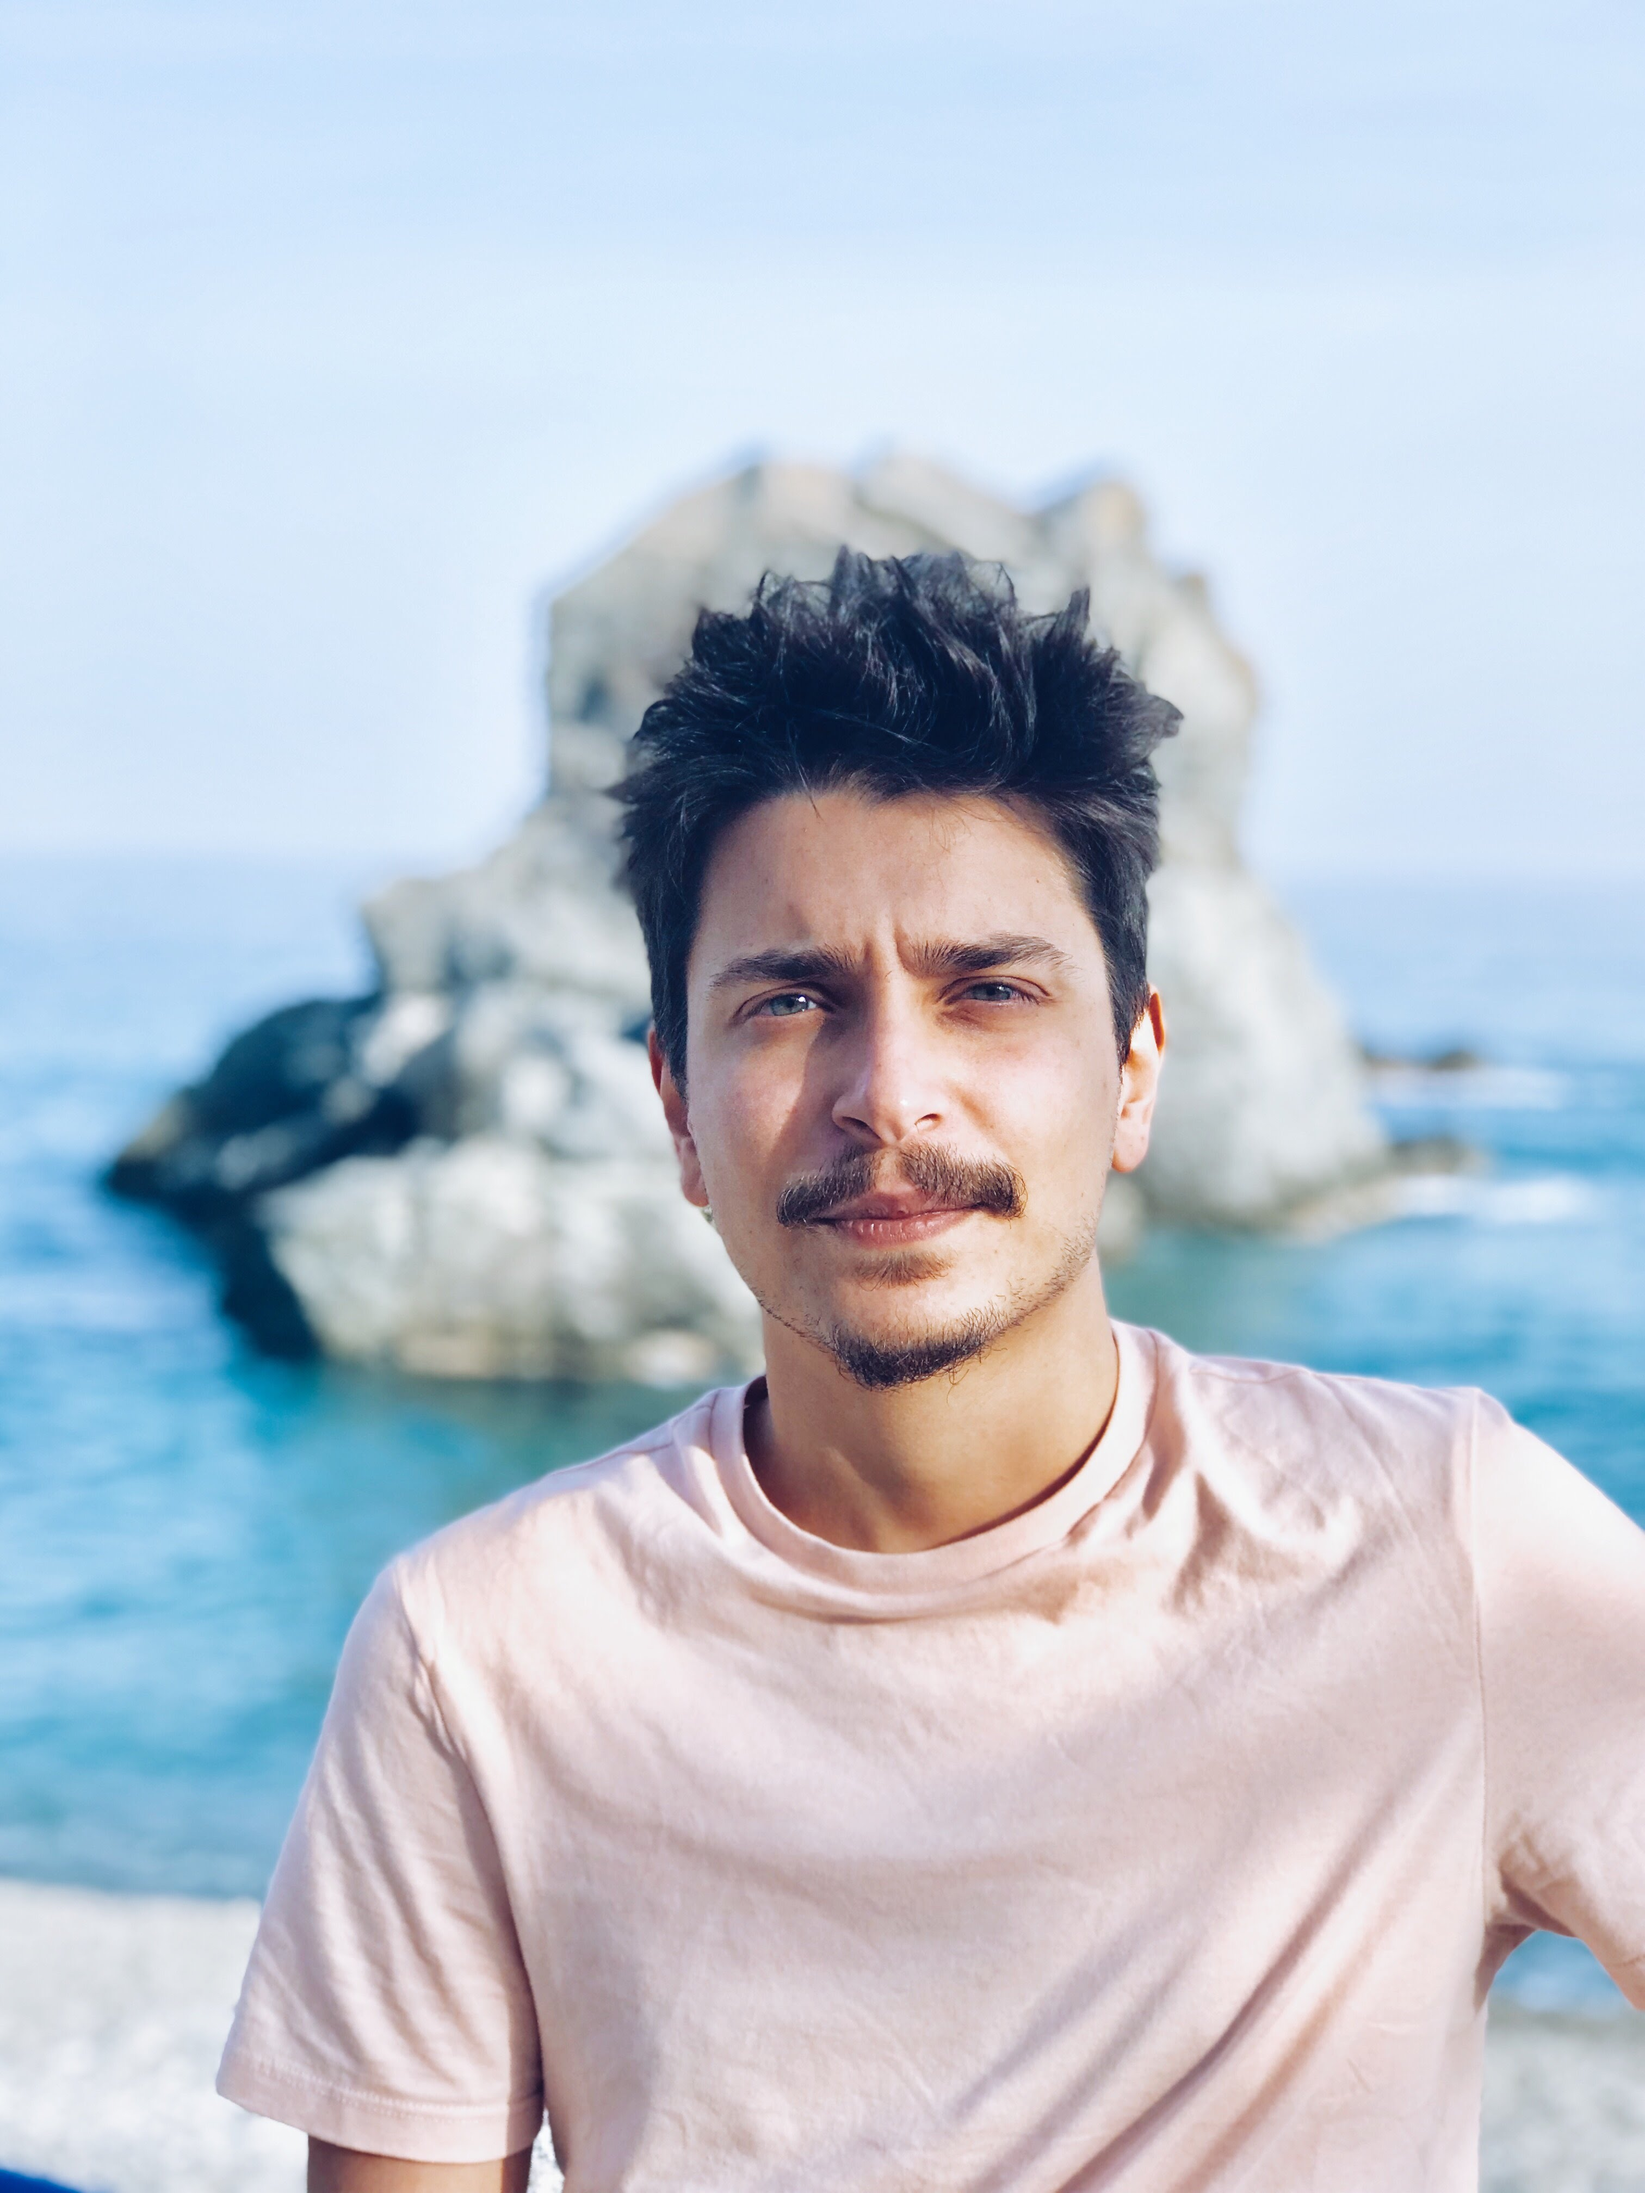
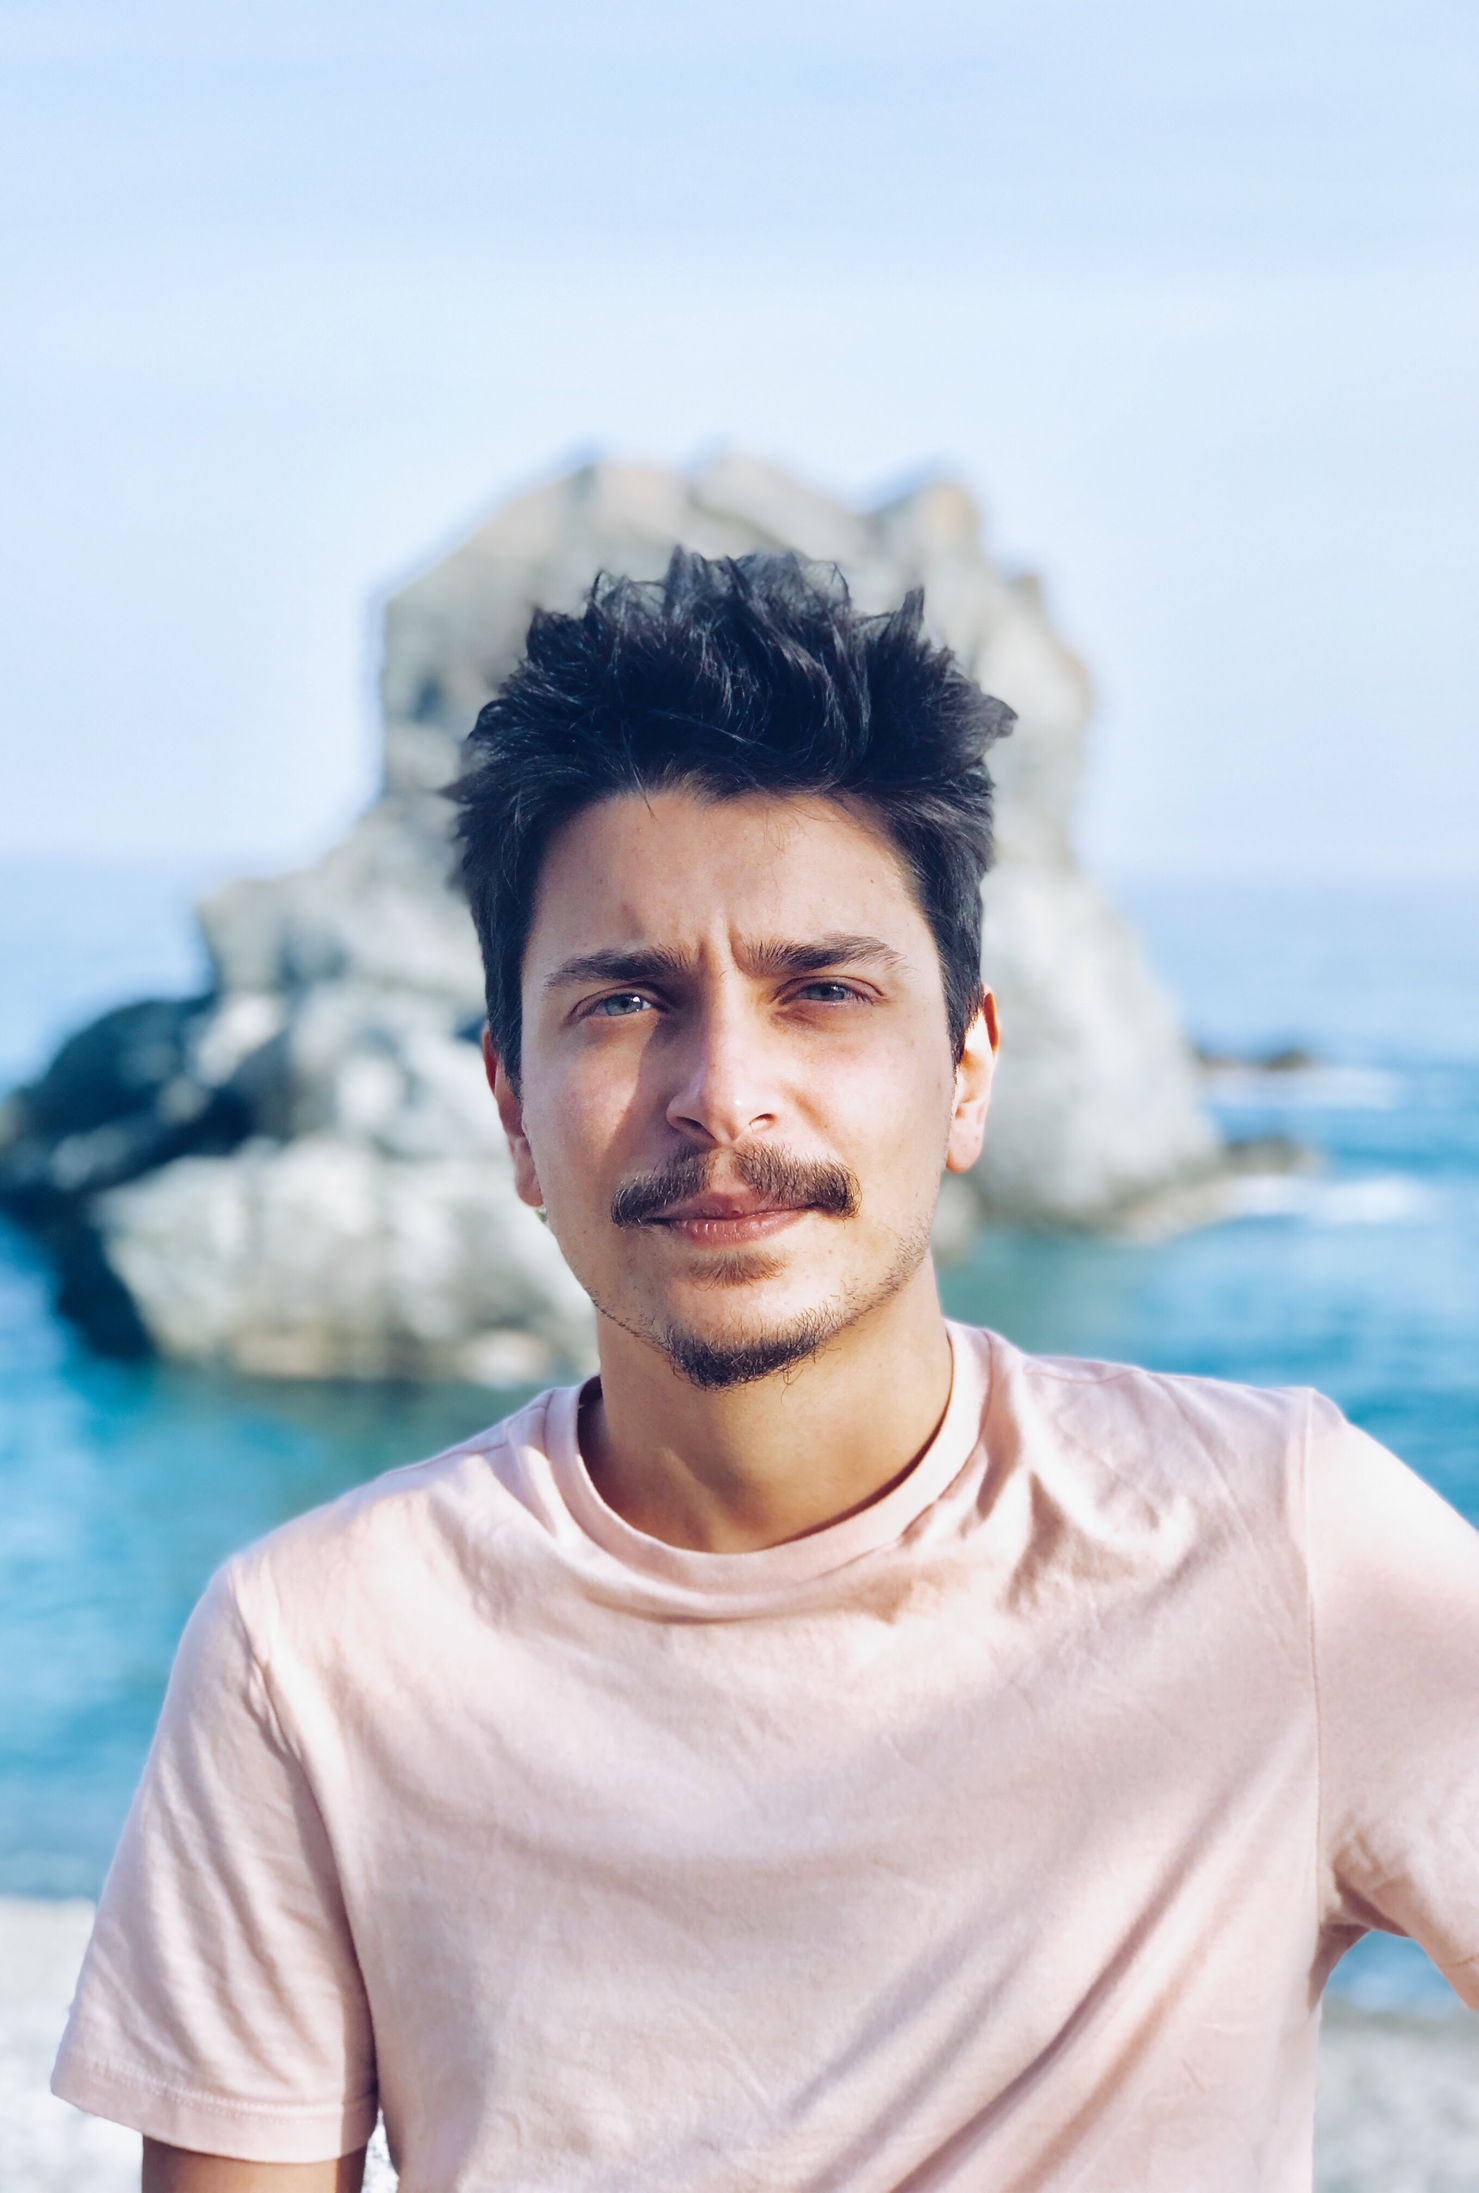
mobile support

diff --git a/style.css b/style.css
@@ -112,7 +112,7 @@ h1 {
 }
 
 h2 {
-  font-size: 2rem;
+  font-size: 2.8rem;
   /* line-height: 2; */
   /* margin-bottom: 1.2rem; */
   letter-spacing: -0.15rem;
@@ -233,6 +233,10 @@ p {
   box-shadow: 0 0 30px rgba(33, 33, 33, 0.2);
 }
 
+.navbar .logo {
+  font-size: 6rem;
+}
+
 .text {
   grid-area: textArea;
   display: flex;
@@ -297,6 +301,10 @@ p {
   display: flex;
   justify-content: center;
   align-items: center;
+  background-image: url("assets/photos/profile.JPG");
+  background-position: center; /* Center the image */
+  background-repeat: no-repeat; /* Do not repeat the image */
+  background-size: cover; /* Resize the background image to cover the entire container */
 }
 
 .profile:hover {
@@ -368,10 +376,10 @@ p {
   /* justify-content: center; */
   align-content: center;
   display: grid;
-  grid-template-columns: repeat(4, 1fr);
-  grid-template-rows: 80px 1fr 0.5fr 120px;
   column-gap: 20px;
   row-gap: 20px;
+  grid-template-columns: repeat(4, 1fr);
+  grid-template-rows: 0.15fr 1fr 0.5fr 0.3fr;
   grid-template-areas:
     "navbar navbar navbar navbar"
     "textArea textArea profile profile"
@@ -396,29 +404,63 @@ p {
 /* ****** BREAKPOINTS ****** */
 
 /* Extra small devices (phones, 600px and down) */
-/* @media only screen and (max-width: 600px) {
-  ...;
-} */
+@media only screen and (max-width: 768px) {
+  html {
+    font-size: 55%;
+  }
 
-/* Small devices (portrait tablets and large phones, 600px and up) */
-/* @media only screen and (min-width: 600px) {
-  ...;
-} */
+  /* html .navbar .logo {
+    font-size: 85%;
+  } */
+
+  .container {
+    grid-template-columns: 1fr;
+    grid-template-rows: 0.15fr 1fr 0.5fr 0.5fr 0.3fr;
+    grid-template-areas:
+      "navbar"
+      "textArea"
+      "skills"
+      "projects"
+      "footer";
+  }
+
+  .profile {
+    display: none;
+  }
+}
 
 /* Medium devices (landscape tablets, 768px and up) */
 /* @media only screen and (min-width: 768px) {
-  ...;
-} */
-
-/* Large devices (laptops/desktops, 992px and up) */
-/* @media only screen and (max-width: 912px) {
-  .main .text {
-    padding-right: 0;
-    padding-bottom: 50px;
+  html {
+    font-size: 83.75%;
+  }
+  .container {
+    grid-template-columns: 1fr;
+    grid-template-rows: 0.15fr 1fr 1fr 0.5fr 0.5fr 0.3fr;
+    grid-template-areas:
+      "navbar"
+      "textArea"
+      "profile"
+      "skills"
+      "projects"
+      "footer";
   }
 } */
 
+/* Large devices (laptops/desktops, 992px and up) */
+@media only screen and (min-width: 768px) {
+  html {
+    font-size: 62.5%;
+  }
+  /* .main .text {
+    padding-right: 0;
+    padding-bottom: 50px;
+  } */
+}
+
 /* Extra large devices (large laptops and desktops, 1200px and up) */
-/* @media only screen and (min-width: 1200px) {
-  ...;
-} */
+@media only screen and (min-width: 1280px) {
+  html {
+    font-size: 125%;
+  }
+}

diff --git a/index.html b/index.html
@@ -31,7 +31,7 @@
             <h2>From <span class="italy">Italy</span></h2>
           </div>
         </div>
-        <div class="profile"><h1>photo</h1></div>
+        <div class="profile"></div>
         <div class="skills">
           <div class="cell skillsTitle"><h1>skills</h1></div>
           <div class="languages">
